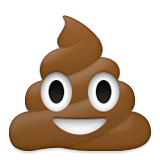
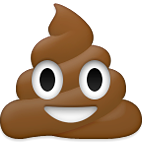
check if ball is to left or right of goal before movign bottom

Changed region(s): [[0.0, 0.0, 1.0, 1.0]]

diff --git a/index.html b/index.html
@@ -39,7 +39,7 @@
 
 			game.load.image('ball', 'assets/images/ball.png');
 			game.load.image('hoop', 'assets/images/toilet_full.png');
-			game.load.image('toilet_bottom', 'assets/images/toilet_bottom_squared.png')
+			game.load.image('toilet_bottom', 'assets/images/toilet_bottom_morecropped.png')
 				// game.load.image('hoop', 'assets/images/hoop.png');
 			game.load.image('side rim', 'assets/images/side_rim.png');
 			game.load.image('front rim', 'assets/images/front_rim.png');
@@ -173,12 +173,12 @@
 
 			game.physics.p2.enable([left_rim, right_rim], false);
 
-			left_rim.body.setCircle(2.5);
+			left_rim.body.setCircle(3);
 			left_rim.body.static = true;
 			left_rim.body.setCollisionGroup(collisionGroup);
 			left_rim.body.collides([collisionGroup]);
 
-			right_rim.body.setCircle(2.5);
+			right_rim.body.setCircle(3);
 			right_rim.body.static = true;
 			right_rim.body.setCollisionGroup(collisionGroup);
 			right_rim.body.collides([collisionGroup]);
@@ -210,7 +210,7 @@
 		function update() {
 
 
-			if (ball && ball.body.velocity.y > 0 && ball.body.y < 300) {
+			if (ball && ball.body.velocity.y > 0 && ball.body.y < 300 && ball.body.x > 150 && ball.body.y < 260) {
 				 if (toilet_bottom === undefined)  {
 					 toilet_bottom = game.add.sprite(127, 161, 'toilet_bottom');
 					 toilet_bottom_group.add(toilet_bottom)
@@ -283,9 +283,9 @@
 
 					// remove win/lose emoji
 					moveInTween.onComplete.add(tweenOut, this);
-					if (toilet_bottom.visible === true) {
-						toilet_bottom.visible = false
-					}
+					// if (toilet_bottom.visible === true) {
+					// 	toilet_bottom.visible = false
+					// }
 
 				if (splash) {
 					moveInLeftSplash = game.add.tween(splashLeft).from({
